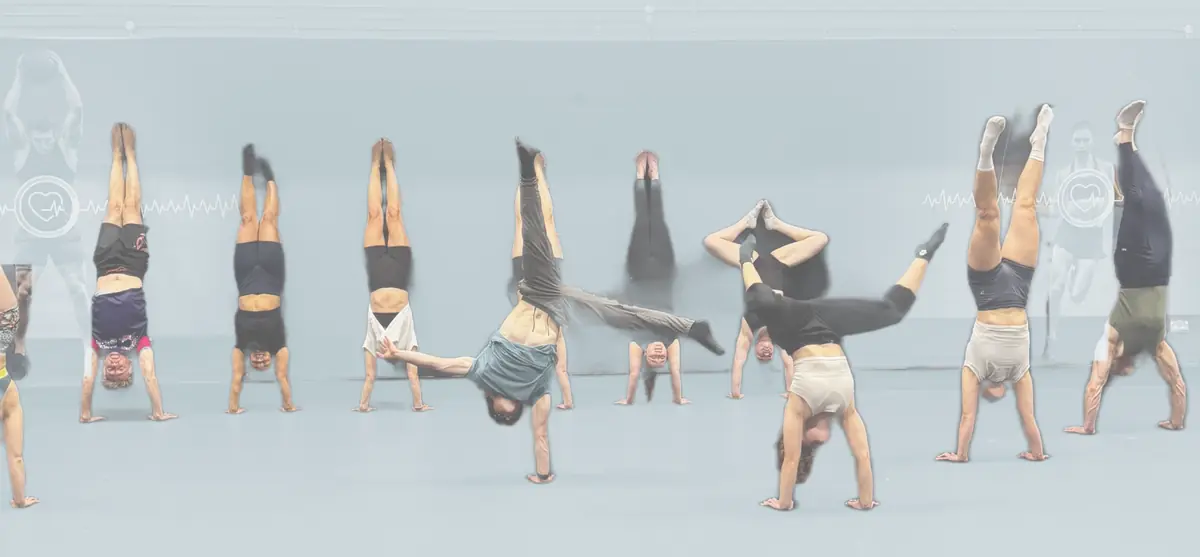
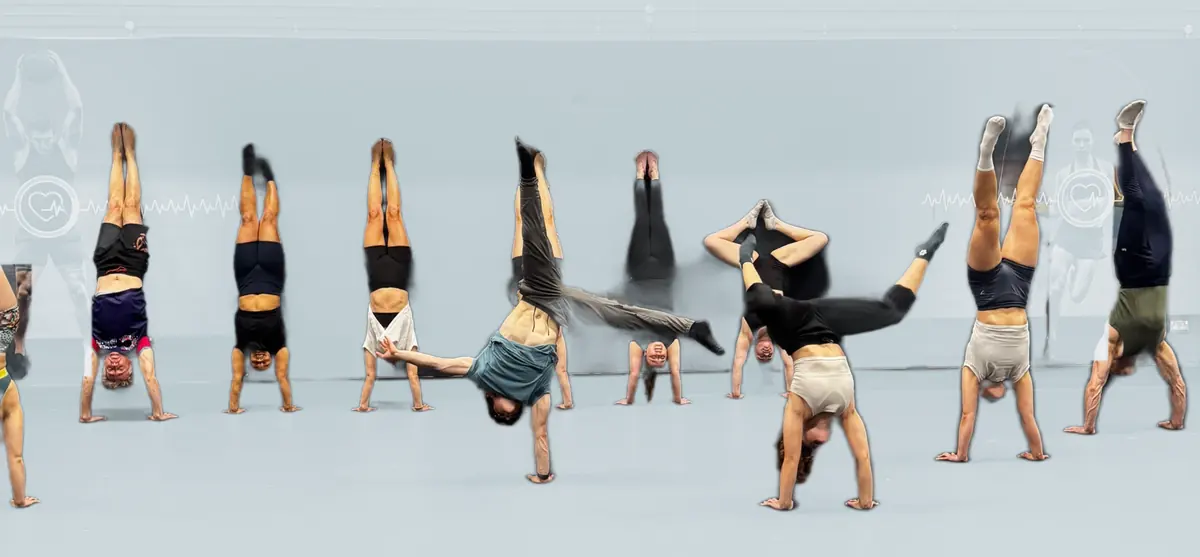
Homepage trial ?hero=colour: the people in full colour on the washed room, on a phone only; a laptop stays exactly as the live page

diff --git a/index.html b/index.html
@@ -3152,9 +3152,9 @@ details.faq-item a { color: var(--green); font-weight: 600; text-decoration: und
 @media (max-width: 860px) {
   /* up behind the pills and the cut-out's hand, starting under "Getting you
      upside down" (Elliott: "maybe below the getting you upside down") */
-  #hero.hero--coach.hero--photo .hero-left { position: relative; z-index: 1; }
-  #hero.hero--coach.hero--photo .hero-side { position: relative; z-index: 0; }
-  #hero.hero--coach.hero--photo .hero-side::before { content: ''; display: block; height: 190px; margin: -158px -20px -8px;
+  #hero.hero--coach.hero--photo .hero-left, #hero.hero--coach.hero--colour .hero-left { position: relative; z-index: 1; }
+  #hero.hero--coach.hero--photo .hero-side, #hero.hero--coach.hero--colour .hero-side { position: relative; z-index: 0; }
+  #hero.hero--coach.hero--photo .hero-side::before, #hero.hero--coach.hero--colour .hero-side::before { content: ''; display: block; height: 190px; margin: -158px -20px -8px;
     /* a little clearer than the laptop's, as a band of its own (Elliott: "make it slightly clearer") */
     background: url('/assets/site/hero-lsbu-wash-phone.webp') 44% 72% / cover no-repeat;
     -webkit-mask-image: linear-gradient(to bottom, transparent 0, #000 22%, #000 72%, transparent 100%);
@@ -3171,13 +3171,12 @@ details.faq-item a { color: var(--green); font-weight: 600; text-decoration: und
 @media (max-width: 860px) {
   #hero.hero--coach.hero--people .hero-side::before { background-image: url('/assets/site/hero-people-phone.webp'); }
 }
-/* ?hero=colour: the washed room kept, the people in their own colours on it
-   (Elliott: "try with the figures having colour but keep background") */
-@media (min-width: 861px) {
-  #hero.hero--coach.hero--colour #hero-bg { background-image: url('/assets/site/hero-colour.webp'); }
-}
+/* ?hero=colour: on a phone only, the washed room with the people in full
+   colour on it; a laptop stays exactly as the live page (Elliott, 16 Nov
+   2026: "full colour on phone, no back to how it was on desktop") */
 @media (max-width: 860px) {
   #hero.hero--coach.hero--colour .hero-side::before { background-image: url('/assets/site/hero-colour-phone.webp'); }
+  #hero.hero--coach.hero--colour .hero-by { display: none; }
 }
 #hero.hero--coach .container { display: grid; grid-template-columns: minmax(0,1.05fr) minmax(0,1fr);
   gap: 48px; align-items: center; }
@@ -3416,7 +3415,7 @@ details.faq-item a { color: var(--green); font-weight: 600; text-decoration: und
     <script>(function(){ try{ var q=new URLSearchParams(location.search).get('hero');
       if(q==='photo'||q==='people'||q==='colour') localStorage.setItem('lha_hero',q); if(q==='cut') localStorage.removeItem('lha_hero');
       var v=localStorage.getItem('lha_hero'), h=document.getElementById('hero');
-      if(v==='photo'||v==='people'||v==='colour') h.classList.add('hero--photo'); if(v==='people') h.classList.add('hero--people'); if(v==='colour') h.classList.add('hero--colour'); }catch(e){} })();</script>
+      if(v==='photo'||v==='people') h.classList.add('hero--photo'); if(v==='people') h.classList.add('hero--people'); if(v==='colour') h.classList.add('hero--colour'); }catch(e){} })();</script>
     <div id="hero-bg" data-edit-bg></div>
     <div class="hero-content">
       <div class="container">
